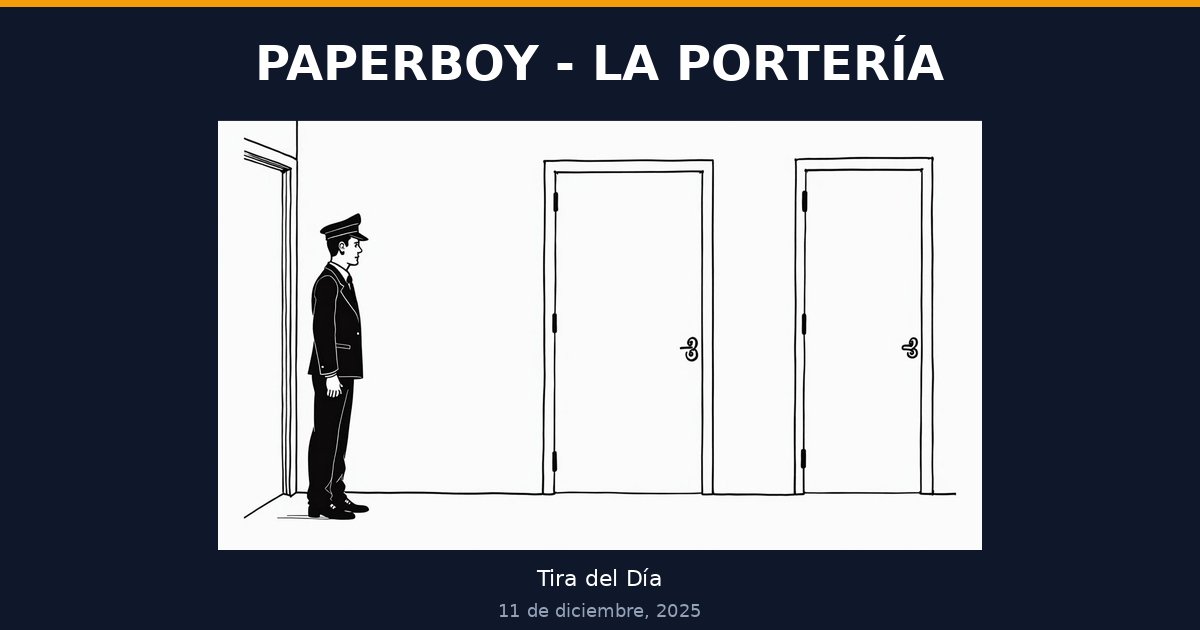
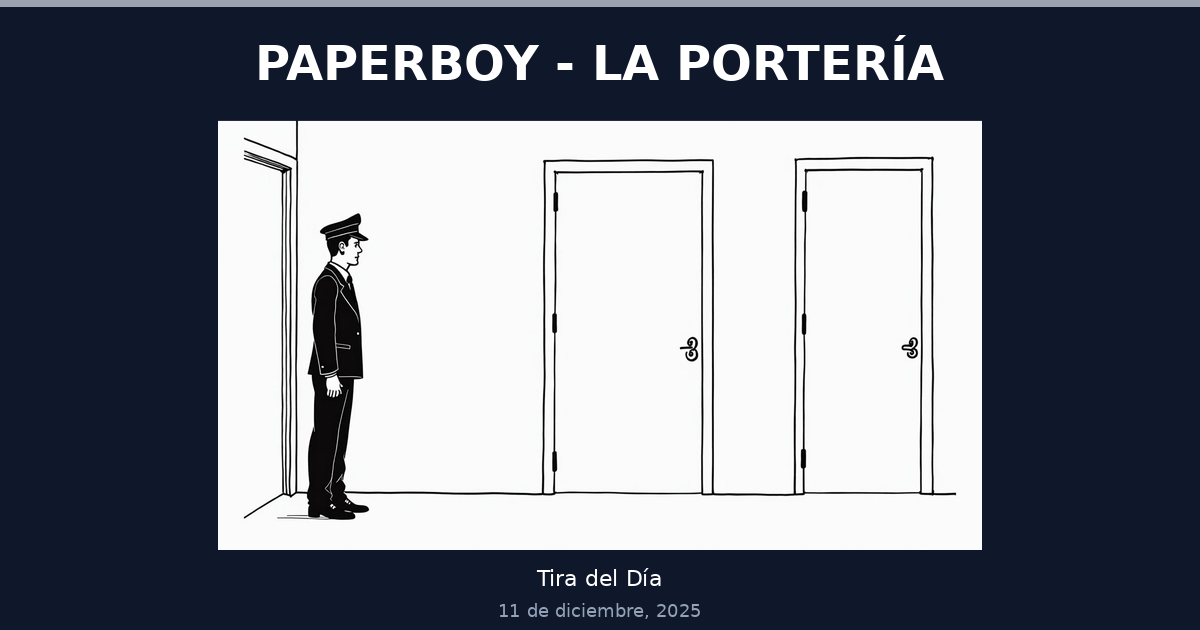
Replace amber color palette with light gray (#9ca3af)

Changed region(s): [[0.0, 0.0, 1.0, 0.0302]]

diff --git a/src/index.css b/src/index.css
@@ -18,7 +18,7 @@ All colors MUST be HSL.
     --popover: 222 20% 8%;
     --popover-foreground: 40 100% 98%;
     
-    --primary: 38 92% 65%;
+    --primary: 220 9% 65%;
     --primary-foreground: 222 20% 8%;
     
     --secondary: 220 15% 18%;
@@ -27,18 +27,18 @@ All colors MUST be HSL.
     --muted: 220 15% 18%;
     --muted-foreground: 40 20% 70%;
     
-    --accent: 30 80% 55%;
+    --accent: 220 9% 55%;
     --accent-foreground: 222 20% 8%;
     
     --destructive: 0 62% 45%;
     --destructive-foreground: 0 0% 98%;
     
-    --border: 38 50% 40%;
+    --border: 220 9% 40%;
     --input: 220 15% 18%;
-    --ring: 38 92% 65%;
+    --ring: 220 9% 65%;
     
-    --shadow-newspaper: 0 2px 12px hsla(38, 92%, 50%, 0.15);
-    --shadow-editorial: 0 4px 24px hsla(38, 92%, 50%, 0.25);
+    --shadow-newspaper: 0 2px 12px hsla(220, 9%, 50%, 0.15);
+    --shadow-editorial: 0 4px 24px hsla(220, 9%, 50%, 0.25);
     
     color-scheme: dark;
   }

diff --git a/scripts/generate-og-image.js b/scripts/generate-og-image.js
@@ -18,7 +18,7 @@ async function generateOGImage() {
   ctx.fillRect(0, 0, width, height);
 
   // Borde superior con color primary
-  ctx.fillStyle = '#f59e0b';
+  ctx.fillStyle = '#9ca3af';
   ctx.fillRect(0, 0, width, 8);
 
   // Título "PAPERBOY"
@@ -40,7 +40,7 @@ async function generateOGImage() {
   ctx.fillText('con estilo minimalista tipo periódico', width / 2, 410);
 
   // Línea decorativa
-  ctx.strokeStyle = '#f59e0b';
+  ctx.strokeStyle = '#9ca3af';
   ctx.lineWidth = 3;
   ctx.beginPath();
   ctx.moveTo(width / 2 - 200, 460);

diff --git a/scripts/generate-og-image-dynamic.py b/scripts/generate-og-image-dynamic.py
@@ -84,7 +84,7 @@ if latest_strip and latest_strip.get('image_url'):
         draw = ImageDraw.Draw(img)
         
         # Borde superior
-        draw.rectangle([0, 0, width, 6], fill='#f59e0b')
+        draw.rectangle([0, 0, width, 6], fill='#9ca3af')
         
         # Fuentes
         try:
@@ -141,7 +141,7 @@ if not latest_strip or not latest_strip.get('image_url'):
     img = Image.new('RGB', (width, height), color='#0f172a')
     draw = ImageDraw.Draw(img)
     
-    draw.rectangle([0, 0, width, 8], fill='#f59e0b')
+    draw.rectangle([0, 0, width, 8], fill='#9ca3af')
     
     try:
         font_title = ImageFont.truetype('/usr/share/fonts/truetype/dejavu/DejaVuSans-Bold.ttf', 100)
@@ -174,7 +174,7 @@ if not latest_strip or not latest_strip.get('image_url'):
     text_width = bbox[2] - bbox[0]
     draw.text(((width - text_width) / 2, 400), text, fill='#cbd5e1', font=font_desc)
     
-    draw.line([(width/2 - 200, 460), (width/2 + 200, 460)], fill='#f59e0b', width=3)
+    draw.line([(width/2 - 200, 460), (width/2 + 200, 460)], fill='#9ca3af', width=3)
     
     text = "albertomaydayjhondoe.github.io/Porterias"
     bbox = draw.textbbox((0, 0), text, font=font_url)

diff --git a/scripts/generate-og-image.py b/scripts/generate-og-image.py
@@ -9,7 +9,7 @@ img = Image.new('RGB', (width, height), color='#0f172a')
 draw = ImageDraw.Draw(img)
 
 # Borde superior con color primary
-draw.rectangle([0, 0, width, 8], fill='#f59e0b')
+draw.rectangle([0, 0, width, 8], fill='#9ca3af')
 
 # Intentar cargar fuentes del sistema, si no usar default
 try:
@@ -53,7 +53,7 @@ draw.text((x, 400), text, fill='#cbd5e1', font=font_desc)
 
 # Línea decorativa
 line_y = 460
-draw.line([(width/2 - 200, line_y), (width/2 + 200, line_y)], fill='#f59e0b', width=3)
+draw.line([(width/2 - 200, line_y), (width/2 + 200, line_y)], fill='#9ca3af', width=3)
 
 # URL
 text = "albertomaydayjhondoe.github.io/Porterias"
